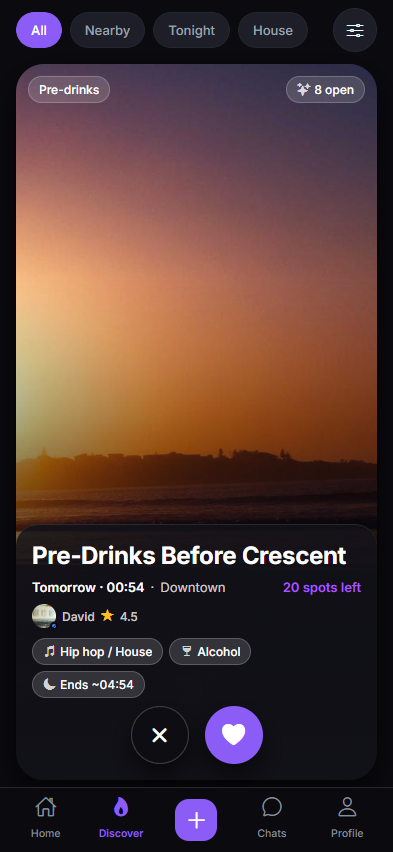
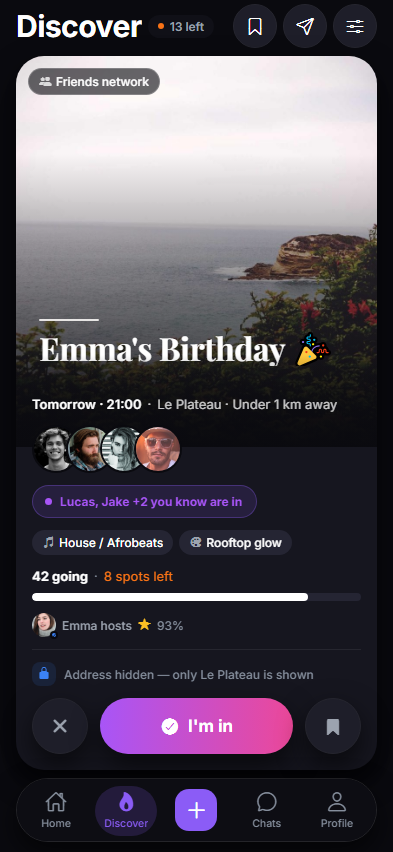
The screenshots show the app as it is now
All three were taken on 30 August and had drifted: the welcome screen
still had the old logo, and the discovery card carried the category
badge the app no longer has. Retaken from the current build at the same
393x852, with sample data, a fixed Friday-afternoon clock so times read
cleanly, and Reduce Motion so nothing is caught mid-animation.

The home and discovery alt text described the old pictures, so both
change in English and French. The welcome one still matches.

diff --git a/index.html b/index.html
@@ -108,10 +108,10 @@
       <div class="hero__media">
         <div class="phones">
           <div class="phone phone--left">
-            <img src="assets/img/shot-home.png" width="393" height="852" alt="L'écran d'accueil de Vatulo, qui liste les prochaines sorties d'une personne." loading="eager" decoding="async">
+            <img src="assets/img/shot-home.png" width="393" height="852" alt="L'écran d'accueil de Vatulo, avec des fêtes qui attendent une réponse et deux demandes pour rejoindre ton Crowd." loading="eager" decoding="async">
           </div>
           <div class="phone phone--lead">
-            <img src="assets/img/shot-discover.png" width="393" height="852" alt="Le fil de découverte de Vatulo, avec une carte de pré-soirée où il reste vingt places." loading="eager" decoding="async" fetchpriority="high">
+            <img src="assets/img/shot-discover.png" width="393" height="852" alt="Le fil de découverte de Vatulo, avec la carte d'une fête d'anniversaire où il reste huit places." loading="eager" decoding="async" fetchpriority="high">
           </div>
           <div class="phone phone--right">
             <img src="assets/img/shot-welcome.png" width="393" height="852" alt="L'écran d'accueil de Vatulo, montrant une fête sur un toit où douze personnes se rendent." loading="eager" decoding="async">

diff --git a/en/index.html b/en/index.html
@@ -108,10 +108,10 @@
       <div class="hero__media">
         <div class="phones">
           <div class="phone phone--left">
-            <img src="../assets/img/shot-home.png" width="393" height="852" alt="The Vatulo home screen, listing a person's next nights out." loading="eager" decoding="async">
+            <img src="../assets/img/shot-home.png" width="393" height="852" alt="The Vatulo home screen, with parties waiting for an answer and two Crowd requests." loading="eager" decoding="async">
           </div>
           <div class="phone phone--lead">
-            <img src="../assets/img/shot-discover.png" width="393" height="852" alt="The Vatulo discovery deck, showing a pre-drinks party card with twenty spots left." loading="eager" decoding="async" fetchpriority="high">
+            <img src="../assets/img/shot-discover.png" width="393" height="852" alt="The Vatulo discovery deck, showing a birthday party card with eight spots left." loading="eager" decoding="async" fetchpriority="high">
           </div>
           <div class="phone phone--right">
             <img src="../assets/img/shot-welcome.png" width="393" height="852" alt="The Vatulo welcome screen, showing a rooftop party with twelve people going." loading="eager" decoding="async">
